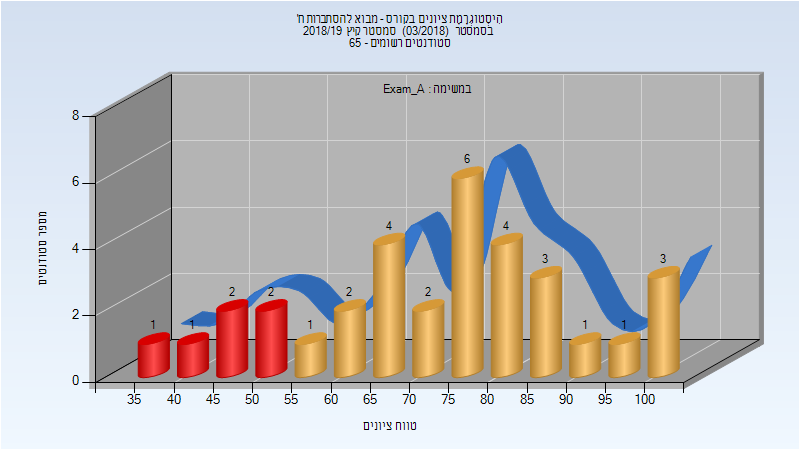
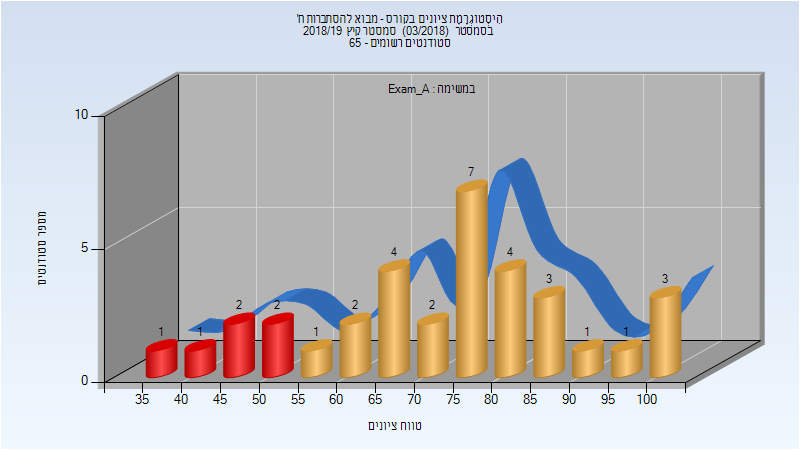
Deploy michael-maltsev/technion-histograms to github.com/michael-maltsev/technion-histograms.git:gh-pages

diff --git a/104034/index.html b/104034/index.html
@@ -2605,12 +2605,12 @@
 </thead>
 <tbody>
 <tr>
-<td>33</td>
-<td>27/6</td>
+<td>34</td>
+<td>28/6</td>
 <td>82</td>
 <td>37</td>
 <td>100</td>
-<td>72.697</td>
+<td>72.824</td>
 <td>76</td>
 </tr>
 </tbody>
@@ -2631,12 +2631,12 @@
 </thead>
 <tbody>
 <tr>
-<td>33</td>
-<td>29/4</td>
+<td>34</td>
+<td>30/4</td>
 <td>88</td>
 <td>41</td>
 <td>100</td>
-<td>74.242</td>
+<td>74.382</td>
 <td>78</td>
 </tr>
 </tbody>

diff --git a/104034/README.md b/104034/README.md
@@ -822,7 +822,7 @@
 
 | סטודנטים | עברו/נכשלו | אחוז עוברים | ציון מינימלי | ציון מקסימלי | ממוצע | חציון |
 | ---- | ---- | ---- | ---- | ---- | ---- | ---- |
-| 33 | 27/6 | 82 | 37 | 100 | 72.697 | 76 |
+| 34 | 28/6 | 82 | 37 | 100 | 72.824 | 76 |
 
 ### סופי מועד א'
 
@@ -830,7 +830,7 @@
 
 | סטודנטים | עברו/נכשלו | אחוז עוברים | ציון מינימלי | ציון מקסימלי | ממוצע | חציון |
 | ---- | ---- | ---- | ---- | ---- | ---- | ---- |
-| 33 | 29/4 | 88 | 41 | 100 | 74.242 | 78 |
+| 34 | 30/4 | 88 | 41 | 100 | 74.382 | 78 |
 
 ### מבחן מועד ב'
 
